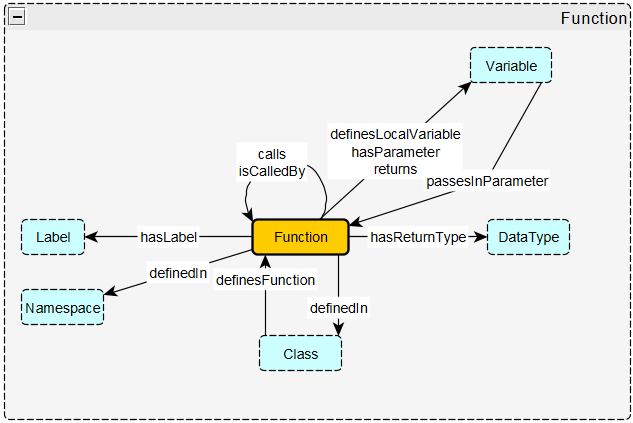
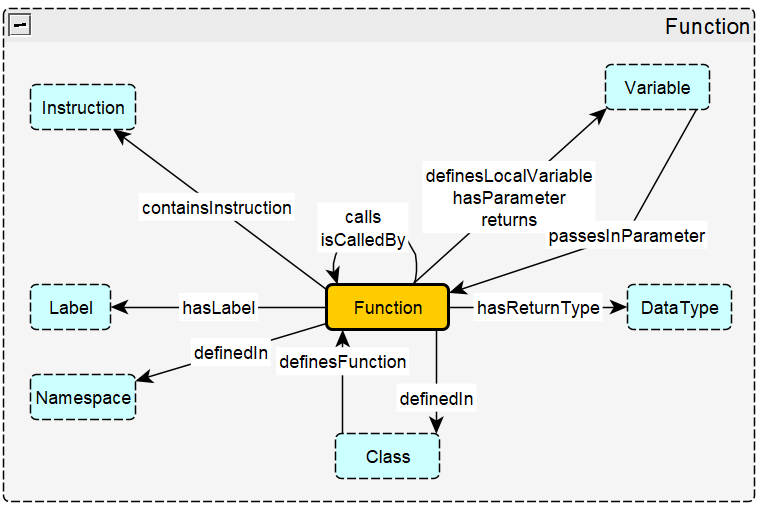
updated documentation to include instruction module

diff --git a/documentation/key-notions.md b/documentation/key-notions.md
@@ -124,6 +124,8 @@ Keeps track of all the aspects of a function, including the variables passed in 
 "A function is defined in exactly one class"
 * `Function definedIn namespace min 1 Namespace` <br />
 "A function is defined in one or more namespaces"
+* `Function containsInstruction min 1 instruction` <br />
+"A function contains one or more instructions"
 
 ## Variable
 ### Description
@@ -197,6 +199,34 @@ Namespaces group together symbols like functions and classes to make sure there 
 "Every name space contains at least 0 or more symbols"
 * `Namespace hasName xsd:string exactly 1 name` <br />
 "Every namespace has exactly one name indicated by xsd:string"
+
+## Instruction
+### Description
+Assembly instructions that come from Ghidra's disassembly from an executable file. 
+
+![Instruction](../Schema/schema_diagram_images/instruction_schema.png)
+
+### Axioms
+* `Instruction hasOpcode exactly 1 opcode` <br />
+"Every instruction has exactly 1 opcode"
+* `Instruction hasSourceOperand min 0 Register` <br />
+"Every instruction has 0 or more registers as source operads"
+* `Instruction hasDestinationOperand min 0 max 1 Register` <br />
+"Every instruction has at most 1 register as a destination operand"
+* `Instruction hasSourceOperand min 0 Label` <br />
+"Every instruction has 0 or more labels as source operads"
+* `Instruction hasDestinationOperand min 0 max 1 Label` <br />
+"Every instruction has at most 1 label as a destination operand"
+* `Instruction hasSourceOperand min 0 Address` <br />
+"Every instruction has 0 or more addresses as source operads"
+* `Instruction hasDestinationOperand min 0 max 1 Address` <br />
+"Every instruction has at most 1 address as a destination operand"
+* `Instruction hasSourceOperand min 0 ImmediateOperands` <br />
+"Every instruction has 0 or more immedate operands as source operads" <br />
+<br />
+* Basically, operands can be registers, memory addresses (including labels), or immediate operands (direct values). Overall, an instruction can have 0 or more source operands total, and 0-1 destination operands total.
+
+
 
 ## Overall Schema Diagram
 ![Schema](../Schema/schema_diagram_images/schema.png)
